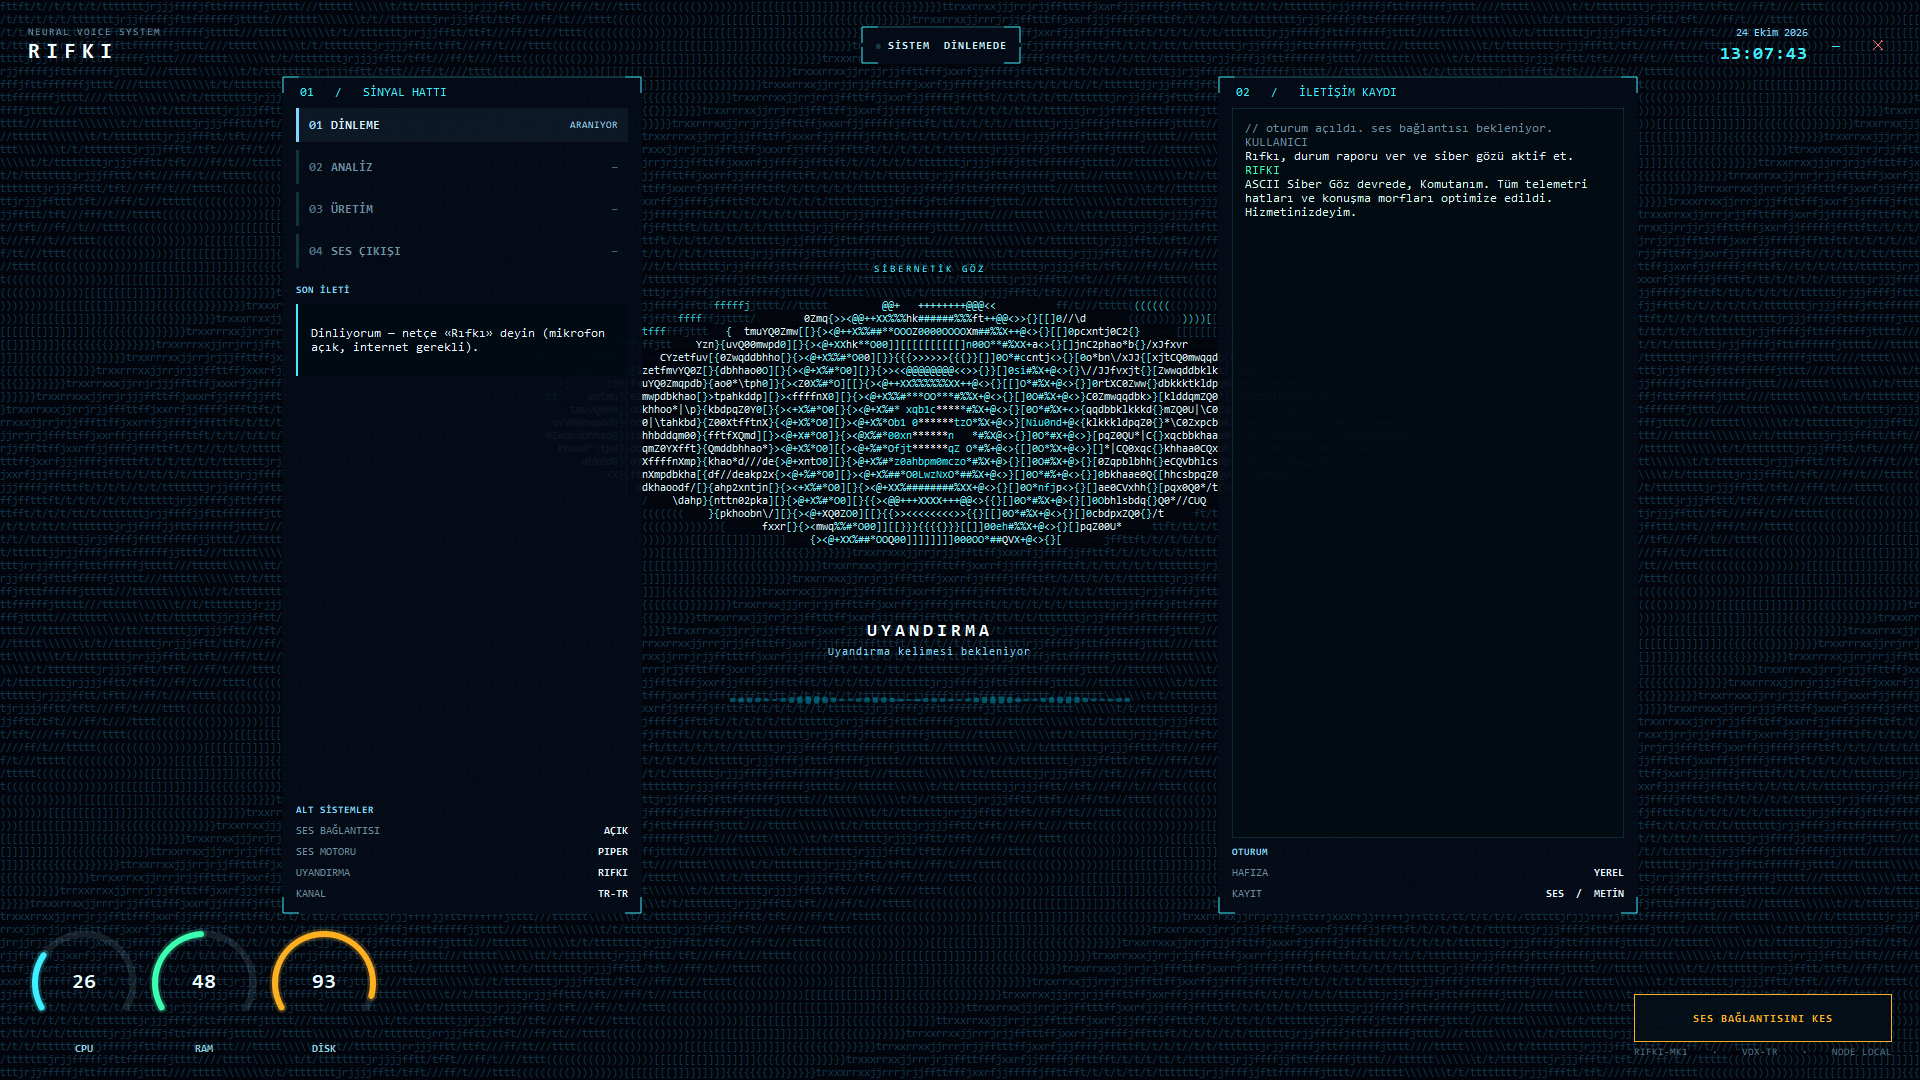
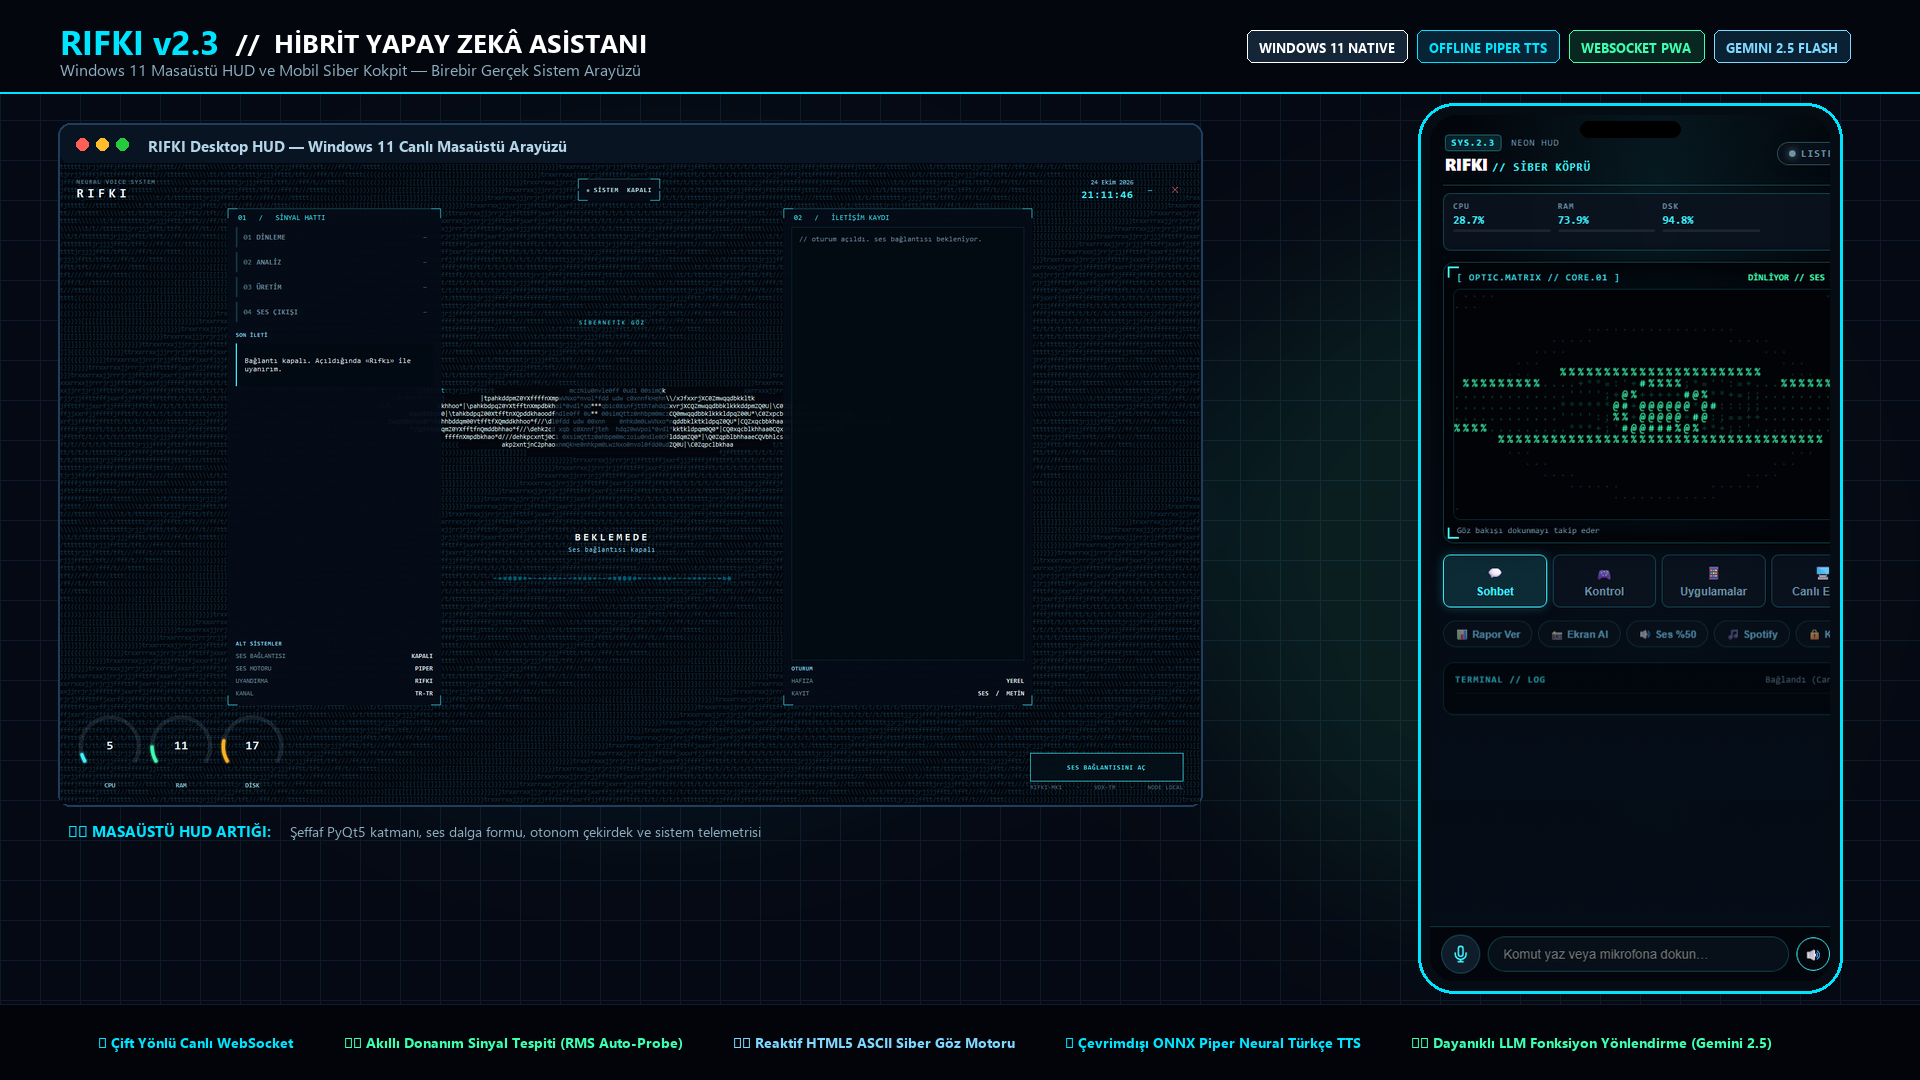
docs: update README, visual assets, and bump version to v2.4.0

Changed region(s): [[0.0, 0.0, 1.0, 1.0], [0.2188, 0.6111, 0.25, 0.6417], [0.1875, 0.2139, 0.2188, 0.2444]]

diff --git a/core/version.py b/core/version.py
@@ -5,7 +5,7 @@ Tek kaynak sürüm numarası. Installer (rifki.iss) ile senkron tutulmalı.
 """
 
 APP_NAME = "RIFKI"
-APP_VERSION = "2.3.0"
+APP_VERSION = "2.4.0"
 
 # GitHub Releases: Setup asset adı RIFKI-Setup-{version}.exe
 GITHUB_OWNER = "BatuhanKlcky"

diff --git a/README.md b/README.md
@@ -1,115 +1,101 @@
-# RIFKI — Kişisel Masaüstü Yapay Zekâ Asistanı (Faz 1 / MVP)
-
-![RIFKI arayüzü](assets/arayuz.png)
-
-Türkçe konuşan, sesli komutları anlayan, Google Gemini tabanlı bir
-karar mekanizmasıyla bilgisayarında güvenli işlemler yapabilen, PyQt5
-tabanlı futuristik arayüze sahip bir masaüstü asistanı.
-
-Bu bir demo/prototip değil, gerçekten çalışan bir Python uygulamasıdır.
-Ancak dürüstçe belirtmek gerekir: bazı bölümler (aşağıda "Faz 2" olarak
-işaretlenenler) bilinçli olarak iskelet/TODO bırakıldı — sahte biçimde
-"çalışıyormuş gibi" gösterilmedi.
-
-## Ne Çalışıyor (Faz 1 — bu teslimat)
-
-- ✅ Futuristik PyQt5 arayüzü (animasyonlu çekirdek, durum göstergesi, sohbet paneli, CPU/RAM, saat)
-- ✅ Türkçe mikrofon girişi + Google Speech Recognition ile metne çevirme
-- ✅ "Rıfkı" wake word döngüsü (bkz. sınırlamalar aşağıda)
-- ✅ Gemini API ile tool-calling (function calling) tabanlı karar sistemi (core/ai.py)
-- ✅ gTTS / pyttsx3 ile Türkçe sesli yanıt
-- ✅ Temel sohbet + bağlam hafızası (kısa süreli)
-- ✅ Uzun süreli hafıza (SQLite: "bunu hatırla" / "bunu unut")
-- ✅ Uygulama açma/kapatma (bilinen uygulamalar listesi)
-- ✅ Web sitesi / YouTube / Google arama açma
-- ✅ İnternette bilgi arama (DuckDuckGo metin araması, API anahtarsız)
-- ✅ Dosya arama / oluşturma / kopyalama / taşıma / yeniden adlandırma / silme
-- ✅ Sistem bilgisi (CPU, RAM, disk), tarih-saat
-- ✅ Ekran görüntüsü alma
-- ✅ Ses seviyesi ayarlama (Windows + pycaw)
-- ✅ Masaüstü bildirimi gönderme (Windows + win10toast)
-- ✅ Kritik işlemler (kapatma, yeniden başlatma, dosya silme vb.) için onay sistemi
-- ✅ Log sistemi (logs/rifki.log), her modülde çökme yerine sade hata mesajı
-- ✅ Mobil köprü: telefondan durum izleme + metin komut (PWA + Cloudflare Tunnel)
-
-## Mobil erişim (Play / APK)
-
-Her kullanıcı kendi bilgisayarındaki RIFKI’ye bağlanır. Adres ve token elle
-girilmez; QR ile eşleştirilir.
-
-**Hazır paketler**
-
-| Dosya | Ne için |
-|-------|---------|
-| [`mobile-android/RIFKI-mobile-release.aab`](mobile-android/RIFKI-mobile-release.aab) | Google Play yüklemesi (imzalı) |
-| [`mobile-android/RIFKI-mobile-debug.apk`](mobile-android/RIFKI-mobile-debug.apk) | Yan test / doğrudan kurulum |
-
-**Kullanım**
-
-1. Bilgisayarda RIFKI’yi aç (token yoksa otomatik üretilir).
-2. Tepsi simgesi → **Mobil bağlantı** → QR görünür.
-   - Aynı Wi‑Fi: LAN QR
-   - Uzaktan: pencereden tüneli aç (`tools/cloudflared.exe` gömülü)
-3. Telefonda RIFKI → **QR tara** → bağlanır.
-4. Ses PC’den çıkar; telefonda durum + metin komut.
-
-Menüden **Yeniden eşleştir** / **Bağlantıyı kaldır** kullanılabilir.
-
-**Play Store**
-
-- Paket kimliği: `com.rifki.assistant` · sürüm `2.1.0`
-- Gizlilik metni: [`docs/privacy-tr.md`](docs/privacy-tr.md) → GitHub Pages / sitenizde yayınlayıp URL’yi Console’a yapıştırın
-- Mağaza taslağı: [`docs/play-listing-tr.md`](docs/play-listing-tr.md)
-- Yayın checklist: [`docs/play-publish-checklist-tr.md`](docs/play-publish-checklist-tr.md)
-- İmza: `mobile-android/keystore/create-keystore.ps1` (`.jks` git’e girmez)
-- Yeniden derleme: `cd mobile-android` → `.\build-release.ps1` (JDK 17 gerekir)
-
-## Kurulum (Windows) — Setup.exe
-
-**İndir:** [RIFKI-Setup-2.3.0.exe](https://github.com/BatuhanKlcky/rifki-voice-assistant/releases/download/v2.3.0/RIFKI-Setup-2.3.0.exe) · [Release notları](https://github.com/BatuhanKlcky/rifki-voice-assistant/releases/tag/v2.3.0)
+# RIFKI — Hibrit Masaüstü & Mobil Yapay Zekâ Asistanı (v2.4.0)
 
-Kurulu PC sürümü açılışta GitHub Releases’a bakarak güncelleme önerir (tepsi → **Güncellemeleri kontrol et**). Kapatmak için `.env`: `RIFKI_AUTO_UPDATE=false`.
+![RIFKI arayüzü](assets/arayuz.png)
 
-
-Geliştirici yeniden derleme:
-
-1. `dist\RIFKI` üret: `venv\Scripts\python.exe -m PyInstaller --noconfirm rifki.spec`
-2. `cd installer` → `.\build-setup.ps1` (Inno Setup 6 gerekir)
-3. Çıktı: `dist\RIFKI-Setup-2.3.0.exe` — GitHub Release’e `v2.3.0` etiketiyle yükle (asset adı `RIFKI-Setup-2.2.0.exe` olmalı)
-
-Kurulum sihirbazı:
-
-- OmniRoute nedir bilgilendirmesi
-- `localhost:20128` kontrolü
-- API anahtarı / model formu → `.env` otomatik yazılır
-- `installer/payload/omniroute/` doluysa OmniRoute da kopyalanır
-
-**OmniRoute:** RIFKI’nin yerel yapay zekâ köprüsü (`OMNIROUTE_*`). Kapalıysa uygulama açılır ama cevap veremez; ilk açılışta da ayar diyaloğu çıkar.  
-Windows indirme: [OmniRoute v3.8.51](https://github.com/diegosouzapw/OmniRoute/releases/tag/v3.8.51) → `OmniRoute.Setup.3.8.51.exe`
-
-
-Geliştirici (kaynak): Python 3.10+ ve aşağıdaki “Kurulum (geliştirici)” adımları.
-
-## Faz 2'ye Bırakılanlar (şu an İSKELET / TODO — sahte çalışmıyor)
-
-- ⏳ `tools/media.py`: Müzik/video çalma — sadece "henüz desteklenmiyor" mesajı döner.
-- ⏳ `tools/notifications.py -> set_reminder`: Gerçek zamanlayıcı yok, sadece loglar.
-- ⏳ Gerçek offline wake-word motoru (Porcupine vb.) — şu an Google STT ile
-  taklit ediliyor (bkz. `voice/wake_word.py` içindeki not, daha yüksek gecikme).
-- ⏳ Eklenti sistemi (spotify.py, discord.py, github.py, calendar.py) — mimari
-  buna hazır (`tools/` klasörüne yeni dosya + `core/router.py`'a şema eklemek
-  yeterli) ama henüz yazılmadı.
-
-## Gereken API Anahtarları
-
-| Anahtar | Zorunlu mu? | Nereden alınır |
-|---|---|---|
-| `OMNIROUTE_API_KEY` | **Evet** | OmniRoute paneliniz (Setup formuna yapıştırılır) |
-| `OMNIROUTE_MODEL` | Hayır | Varsayılan: `antigravity/gemini-2.5-flash` |
-
-STT / TTS / web arama ayrı ücretli anahtar istemez (kişisel MVP).
-
-## Kurulum (geliştirici)
-
-1. Python 3.10+ kurulu olduğundan emin ol.
-2. Proje klasöründe bir sanal ortam oluştur:
+Türkçe konuşan, sesli ve klavye komutlarını anlayan, Google Gemini tabanlı otonom karar mekanizmasıyla Windows işletim sisteminizi yöneten, PyQt5 tabanlı fütüristik masaüstü HUD ve gerçek zamanlı mobil PWA kokpitine sahip kişisel yapay zekâ asistanı.
+
+---
+
+## 🚀 Öne Çıkan Özellikler (v2.4.0)
+
+- ⚡ **Global Spotlight Hızlı Komut Çubuğu (`Ctrl + Space` / `Ctrl + Shift + R`):**
+  - Hangi uygulamada olursanız olun anında açılan Mac Spotlight / Raycast benzeri arama ve komut çubuğu.
+  - İster yazarak ister bas-konuş (Push-to-Talk) mikrofonu ile fısıldayarak komut verme.
+- 🎵 **YouTube Music Doğrudan Parça Entegrasyonu:**
+  - *"YouTube Music'te Mor ve Ötesi çal"*, *"Arkaya lo-fi müzik aç"* dediğinizde en iyi parçayı bulup doğrudan tarayıcınızda başlatır.
+- 🔌 **Uzaktan PC Açma (Wake-on-LAN) & Ağ Yönetimi:**
+  - Bilgisayarın fiziksel Ethernet/Wi-Fi MAC adresini otomatik tespit eder ve yerel ağdaki cihazlara 102 baytlık sihirli paket (Magic Packet) gönderir.
+- 🧠 **Derin Anlamsal Hafıza & Not Defteri (Semantic Memory):**
+  - Bilinen kullanıcı tercihleri her komutta otomatik olarak sistem promptuna enjekte edilir.
+  - Yapılandırılmış notlar ve fikirler saklanır (`save_note`, `search_notes`).
+- 🤖 **Gerçek Masaüstü & Dosya Otomasyonu (Agent GUI):**
+  - **Akıllı Klasör Düzenleyici:** İndirilenler klasöründeki dağınık dosyaları türlerine göre (`Resimler`, `Belgeler`, `Arşivler`, `Kurulumlar`) tek komutla toparlar.
+  - **Çöp Kutusu Boşaltma:** Onay mekanizmasıyla Windows Geri Dönüşüm Kutusunu temizler.
+  - **Pencere & Sekme Yönetimi:** Masaüstünü gösterme (Win+D), pencere kapatma (Alt+F4), büyütme/küçültme, sekme açma/kapatma/kurtarma.
+- 🎙 **Akıllı Donanım Mikrofon Tespiti (RMS Auto-Probe):**
+  - Windows'un sessiz "Stereo Karışımı" tuzağını aşarak aktif harici kulaklık/mikrofonu otomatik seçer.
+- 🔊 **Çevrimdışı Türkçe Nöral Ses (Local Piper ONNX):**
+  - Bulut gecikmesi olmadan yerel çalışan ONNX tabanlı Türkçe nöral ses motoru (`tr_TR-fahrettin-medium` / `dfki`).
+- 📱 **Siber Kokpit & Mobil Köprü (PWA + WebSockets):**
+  - Telefondan dokunmayı takip eden HTML5 Canvas ASCII Siber Göz reaktörü.
+  - Anlık CPU, RAM, Disk telemetrisi, canlı ekran görüntüsü akışı ve uzaktan kumanda.
+
+---
+
+## 🛠 Mimari & Teknoloji Yığını
+
+| Katman | Kullanılan Teknolojiler |
+|---|---|
+| **Yapay Zekâ Motoru** | Google Gemini 2.5 Flash / OmniRoute, Şema Tabanlı Tool Calling |
+| **Ses Hattı** | PyAudio (RMS Probe), SpeechRecognition, Piper ONNX Neural TTS |
+| **Masaüstü Arayüzü** | PyQt5 (Şeffaf HUD), Win32 API (`RegisterHotKey`, `user32`, `shell32`), PyCAW |
+| **Mobil Köprü** | aiohttp, WebSockets, HTML5 Canvas Matrix Engine, PWA |
+| **Veritabanı** | SQLite (İki katmanlı hafıza + not defteri) |
+| **Paketleme** | PyInstaller (Early ONNX Hook), Inno Setup 6 |
+
+---
+
+## 📲 Mobil Erişim (PWA & Android)
+
+Her kullanıcı kendi bilgisayarındaki RIFKI’ye bağlanır. Adres ve token elle girilmez; QR ile kolayca eşleştirilir.
+
+**Kullanım:**
+1. Bilgisayarda RIFKI’yi açın.
+2. Tepsi simgesi → **Mobil bağlantı** → QR kodunu telefonunuzla tarayın:
+   - Aynı Wi‑Fi ağı: Yerel LAN bağlantısı
+   - Dış ağdan erişim: Dahili Cloudflare Tunnel desteği
+3. Mobil arayüzden gerçek zamanlı donanım telemetrisini izleyebilir, sesli/yazılı komut verebilir ve masaüstünüzü yönetebilirsiniz.
+
+---
+
+## 💻 Kurulum (Windows)
+
+### 1. Hazır Kurulum Dosyası (Setup.exe)
+En son kararlı sürümü [GitHub Releases](https://github.com/BatuhanKlcky/rifki-voice-assistant/releases) sayfasından indirip tek tıkla kurabilirsiniz.
+
+### 2. Geliştirici Kurulumu (Kaynak Koddan Çalıştırma)
+1. Python 3.10+ kurulu olduğundan emin olun.
+2. Sanal ortam oluşturun ve bağımlılıkları yükleyin:
+   ```powershell
+   python -m venv venv
+   .\venv\Scripts\activate
+   pip install -r requirements.txt
+   ```
+3. `.env` dosyasını yapılandırın:
+   ```env
+   OMNIROUTE_API_KEY=your_gemini_key_here
+   OMNIROUTE_MODEL=antigravity/gemini-2.5-flash
+   WAKE_WORD=rıfkı
+   TTS_ENGINE=piper
+   PIPER_VOICE=tr_TR-fahrettin-medium
+   MOBILE_BRIDGE_ENABLED=true
+   MOBILE_BRIDGE_TOKEN=585858
+   ```
+4. Uygulamayı başlatın:
+   ```powershell
+   python main.py
+   ```
+
+---
+
+## ⌨ Temel Kısayollar
+
+- **`Ctrl + Space` veya `Ctrl + Shift + R`:** Spotlight Hızlı Komut Çubuğunu açar/kapatır.
+- **`Esc`:** Açık olan Spotlight veya diyaloğu gizler.
+- **`Enter`:** Komutu çalıştırır.
+
+---
+
+## 📄 Lisans
+
+Bu proje kişisel ve açık kaynaklı geliştirme amacıyla hazırlanmıştır. Katkıda bulunmaktan veya geri bildirim vermekten çekinmeyin!
